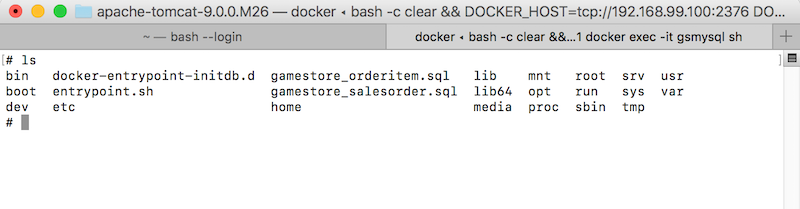
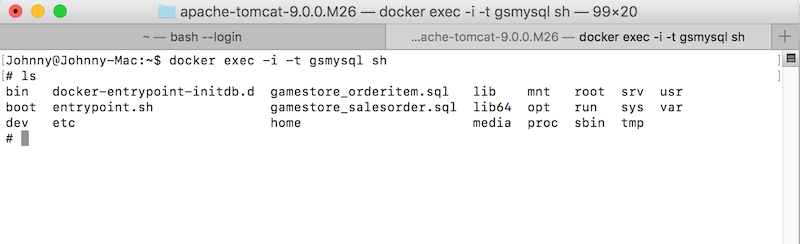
kitematic

diff --git a/_posts/2016-09-15-install-docker-toolboxand-kitematic-on-mac.md b/_posts/2016-09-15-install-docker-toolboxand-kitematic-on-mac.md
@@ -1,0 +1,74 @@
+---
+layout: post
+key: blog
+title: "Install Docker Toolbox and Kitematic on Mac"
+date: 2016-09-15
+tags: Docker, Kitematic
+categories:
+- blog
+---
+
+> Use Kitematic to manage docker images and containers.
+
+## 1. What is Docker Toolbox?
+The Docker Toolbox is an installer to quickly and easily install and setup a Docker environment on your computer.  
+Toolbox includes these Docker tools:  
+* Docker Machine for running docker-machine commands
+* Docker Engine for running the docker commands
+* Docker Compose for running the docker-compose commands
+* Kitematic, the Docker GUI
+* a shell preconfigured for a Docker command-line environment
+* Oracle VirtualBox
+
+## 2. What is Kitematic?
+[Kitematic](https://kitematic.com/) is an open source project built to simplify and streamline using Docker on a Mac or Windows PC. Kitematic automates the Docker installation and setup process and provides an intuitive graphical user interface (GUI) for running Docker containers. Kitematic integrates with Docker Machine to provision a VirtualBox VM and install the Docker Engine locally on your machine.  
+You can find its source files repository on [GitHub](https://github.com/docker/kitematic).
+
+## 3. Install Docker Toolbox
+Go to https://www.docker.com/products/docker-toolbox, select the installer for Mac. Download and follow the wizard to install.
+![MIME Type](/public/pics/2016-09-15/installationtype.png)  
+Note:
+* If you've already installed Oracle VirtualBox on your Mac, then this component won't be installed.
+* You don't need to install Kitematic separately, it is installed as you install Docker Toolbox.
+
+After the installation is finished. You can launch Kitematic.
+![MIME Type](/public/pics/2016-09-15/installfinished.png)  
+
+## 4. Use Kitematic
+### 4.1 Virtual Machine for Docker Machine
+The first you start Kitematic, it will create a new virtual machine in VirtualBox.
+![MIME Type](/public/pics/2016-09-15/virtualbox.png)  
+### 4.2 Main Screen
+Now, you see the main screen of Kitematic. Since we've used Kitematic for a while, there are already some containers list at left side. For you, it is empty at very beginning.
+![MIME Type](/public/pics/2016-09-15/mainscreen.png)  
+Things you can do here:
+* You can search images through the search box and click the CREATE button to run containers for them.
+* You can open a Docker-CLI terminal by clicking the whale button at the left corner.
+### 4.3 Login
+If you've already have a docker ID, you can login here.
+![MIME Type](/public/pics/2016-09-15/login.png)  
+Switch to My Repos tab, the images on your Docker Hub will be listed here.
+![MIME Type](/public/pics/2016-09-15/myrepos.png)  
+
+## 5. Work with a Container
+Take the container we used for previous posting [Use Mysql Container for JSP Application](http://jojozhuang.github.io/blog/2016/09/12/use-mysql-container-for-jsp-application/) as example.
+Select gsmysql container, click the Start button.
+![MIME Type](/public/pics/2016-09-15/gsmysql.png)  
+The container is started. And you see that Access URL, which is the public address can be accessed from outside. In this case, this is the url for remote accessing this mysql database.
+![MIME Type](/public/pics/2016-09-15/started.png)  
+### 5.1 Start Terminal in Container
+Previously, we have to type the following command to open terminal in container.
+```sh
+docker exec -i -t <container> sh
+```
+Now, we just need to click the 'EXEC' button on the top.
+### 5.2 Settings of Container
+Switch to Settings tab. In general sub tab, you can set environment variables here. See that MYSQL_ROOT_PASSWORD, it was set by command line in docker terminal. Now, you can easily set in Kitematic.
+![MIME Type](/public/pics/2016-09-15/general.png)  
+In the Volumes sub tab, this feature enables you to share files between container and host machine.
+![MIME Type](/public/pics/2016-09-15/volume.png)  
+
+## 6. References
+* [Install Docker Toolbox on macOS](https://docs.docker.com/toolbox/toolbox_install_mac/)
+* [Get Started with Docker Quickly, using Kitematic](https://www.youtube.com/watch?v=dwMcmfZaA6Q)
+* [How to uninstall Toolbox](https://docs.docker.com/toolbox/toolbox_install_mac/#how-to-uninstall-toolbox)

diff --git a/_posts/2016-09-12-use-mysql-container-for-jsp-application.md b/_posts/2016-09-12-use-mysql-container-for-jsp-application.md
@@ -129,10 +129,11 @@ $ docker run --detach --name=gsmysql --env="MYSQL_ROOT_PASSWORD=gspassword" --pu
 docker cp ~/GameStore/document/gamestore_orderitem.sql gsmysql:/gamestore_orderitem.sql
 docker cp ~/GameStore/document/gamestore_salesorder.sql gsmysql:/gamestore_salesorder.sql
 ```
-Open to container's terminal through Kitematic, click 'EXEC' button on the top.
-![MIME Type](/public/pics/2016-09-12/kitematic.png)  
-
-A terminal windows opens for mysql container. Use 'ls' to check the files. Our two db restore files are there.
+Start a terminal in a container with the following command:
+```sh
+docker exec -i -t gsmysql sh
+```
+Use 'ls' to check the files. Our two db restore files are there.
 ![MIME Type](/public/pics/2016-09-12/sqlfile.png)  
 
 ### 3.2 Restore Database Schema and Data

diff --git a/_draft/2016-09-15-deploy-jsp-application-to-nginx-container.md b/_draft/2016-09-15-deploy-jsp-application-to-nginx-container.md
@@ -1,9 +1,9 @@
 ---
 layout: post
 key: blog
-title: "Install Git on Ubuntu"
-date: 2016-02-15
-tags: GitHub, SourceTree
+title: "Deploy JSP Application to Nginx Container"
+date: 2016-09-15
+tags: Docker, Nginx
 categories:
 - blog
 ---
